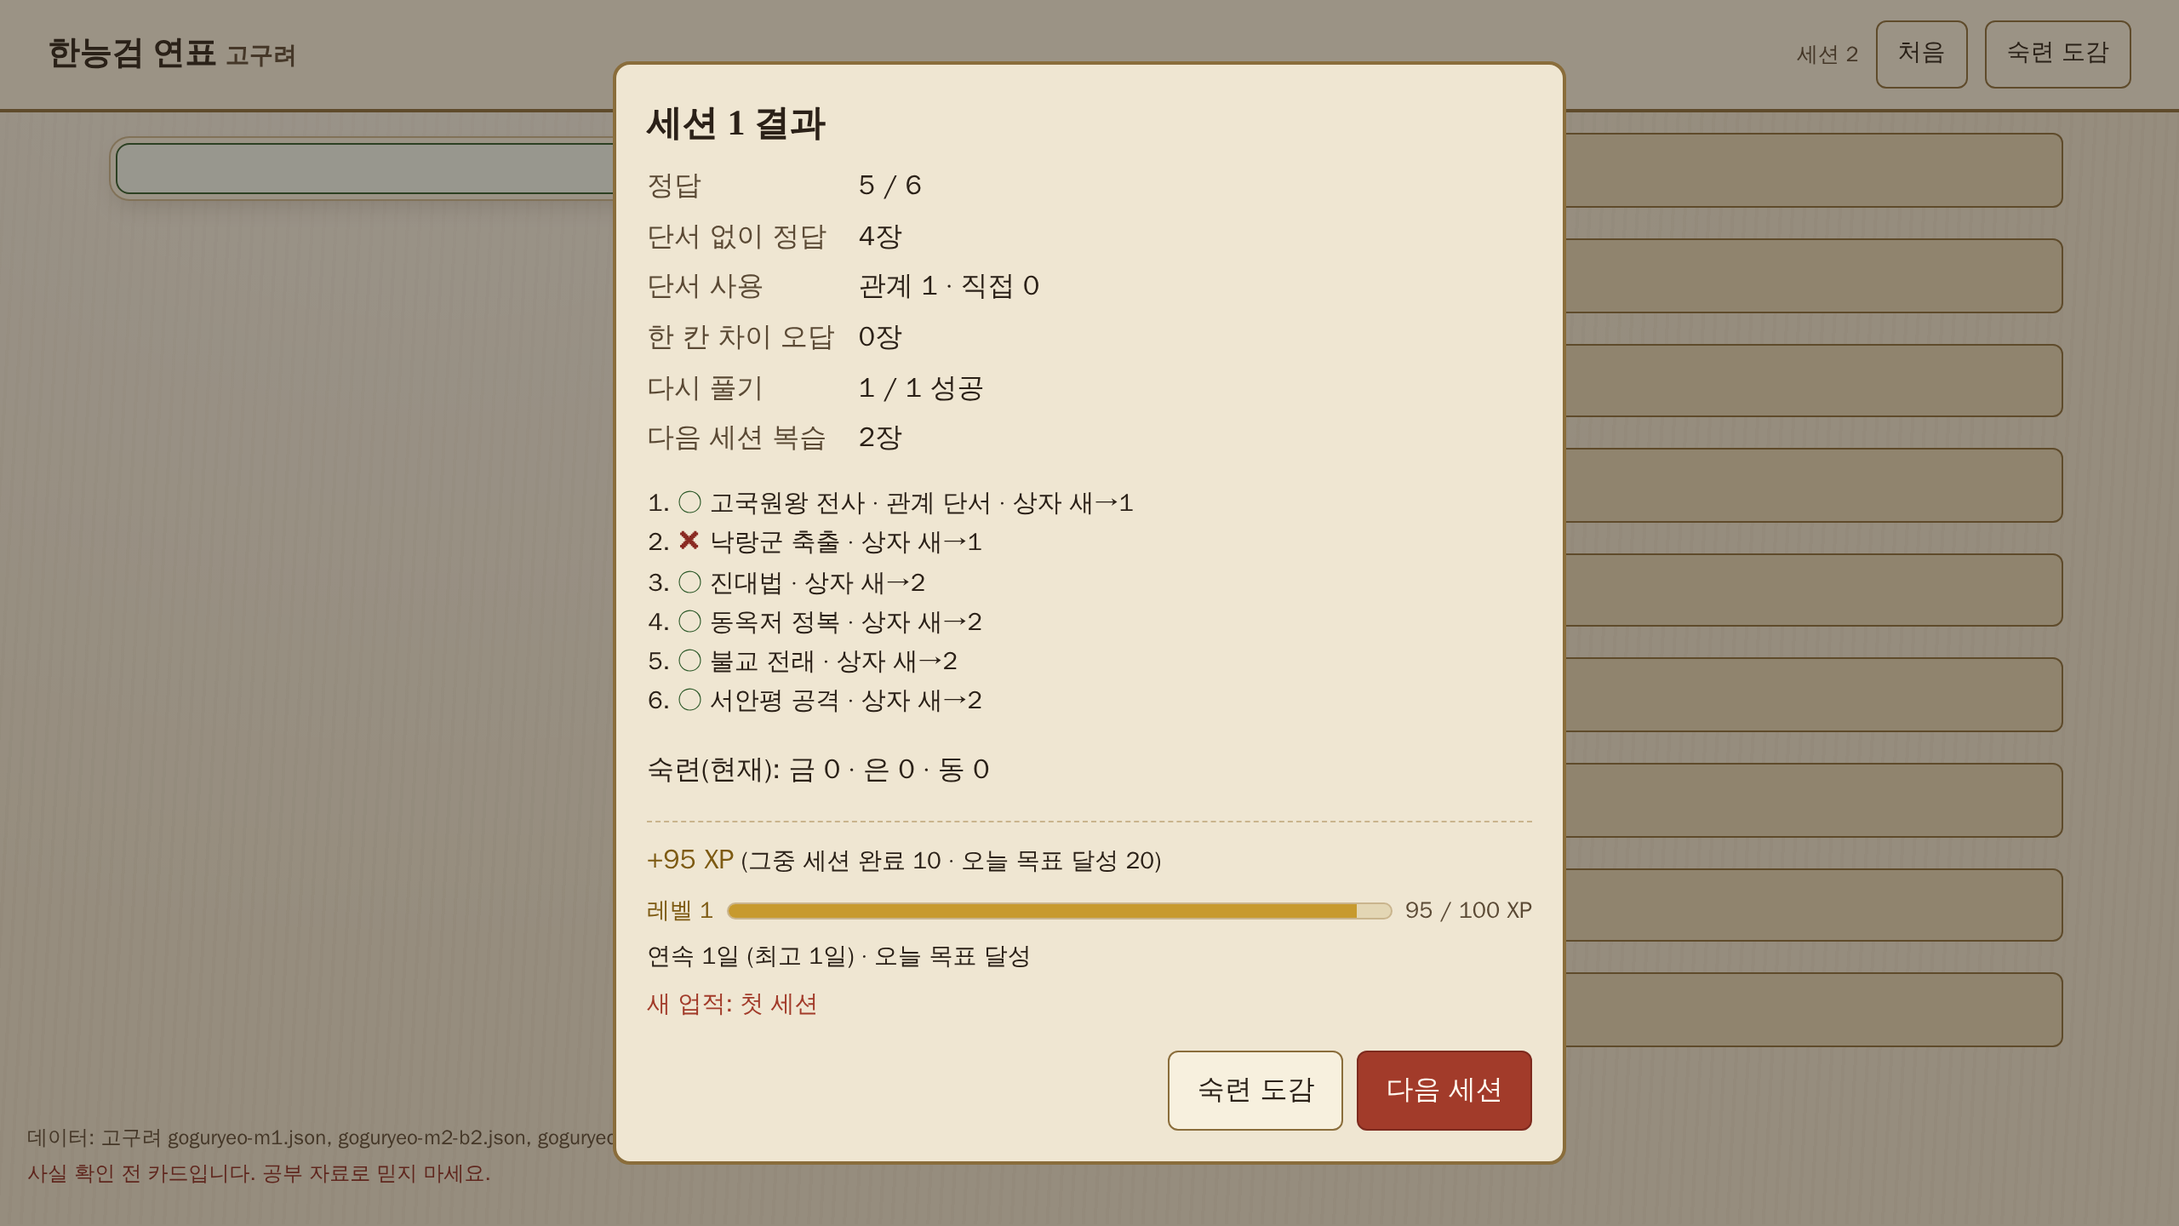
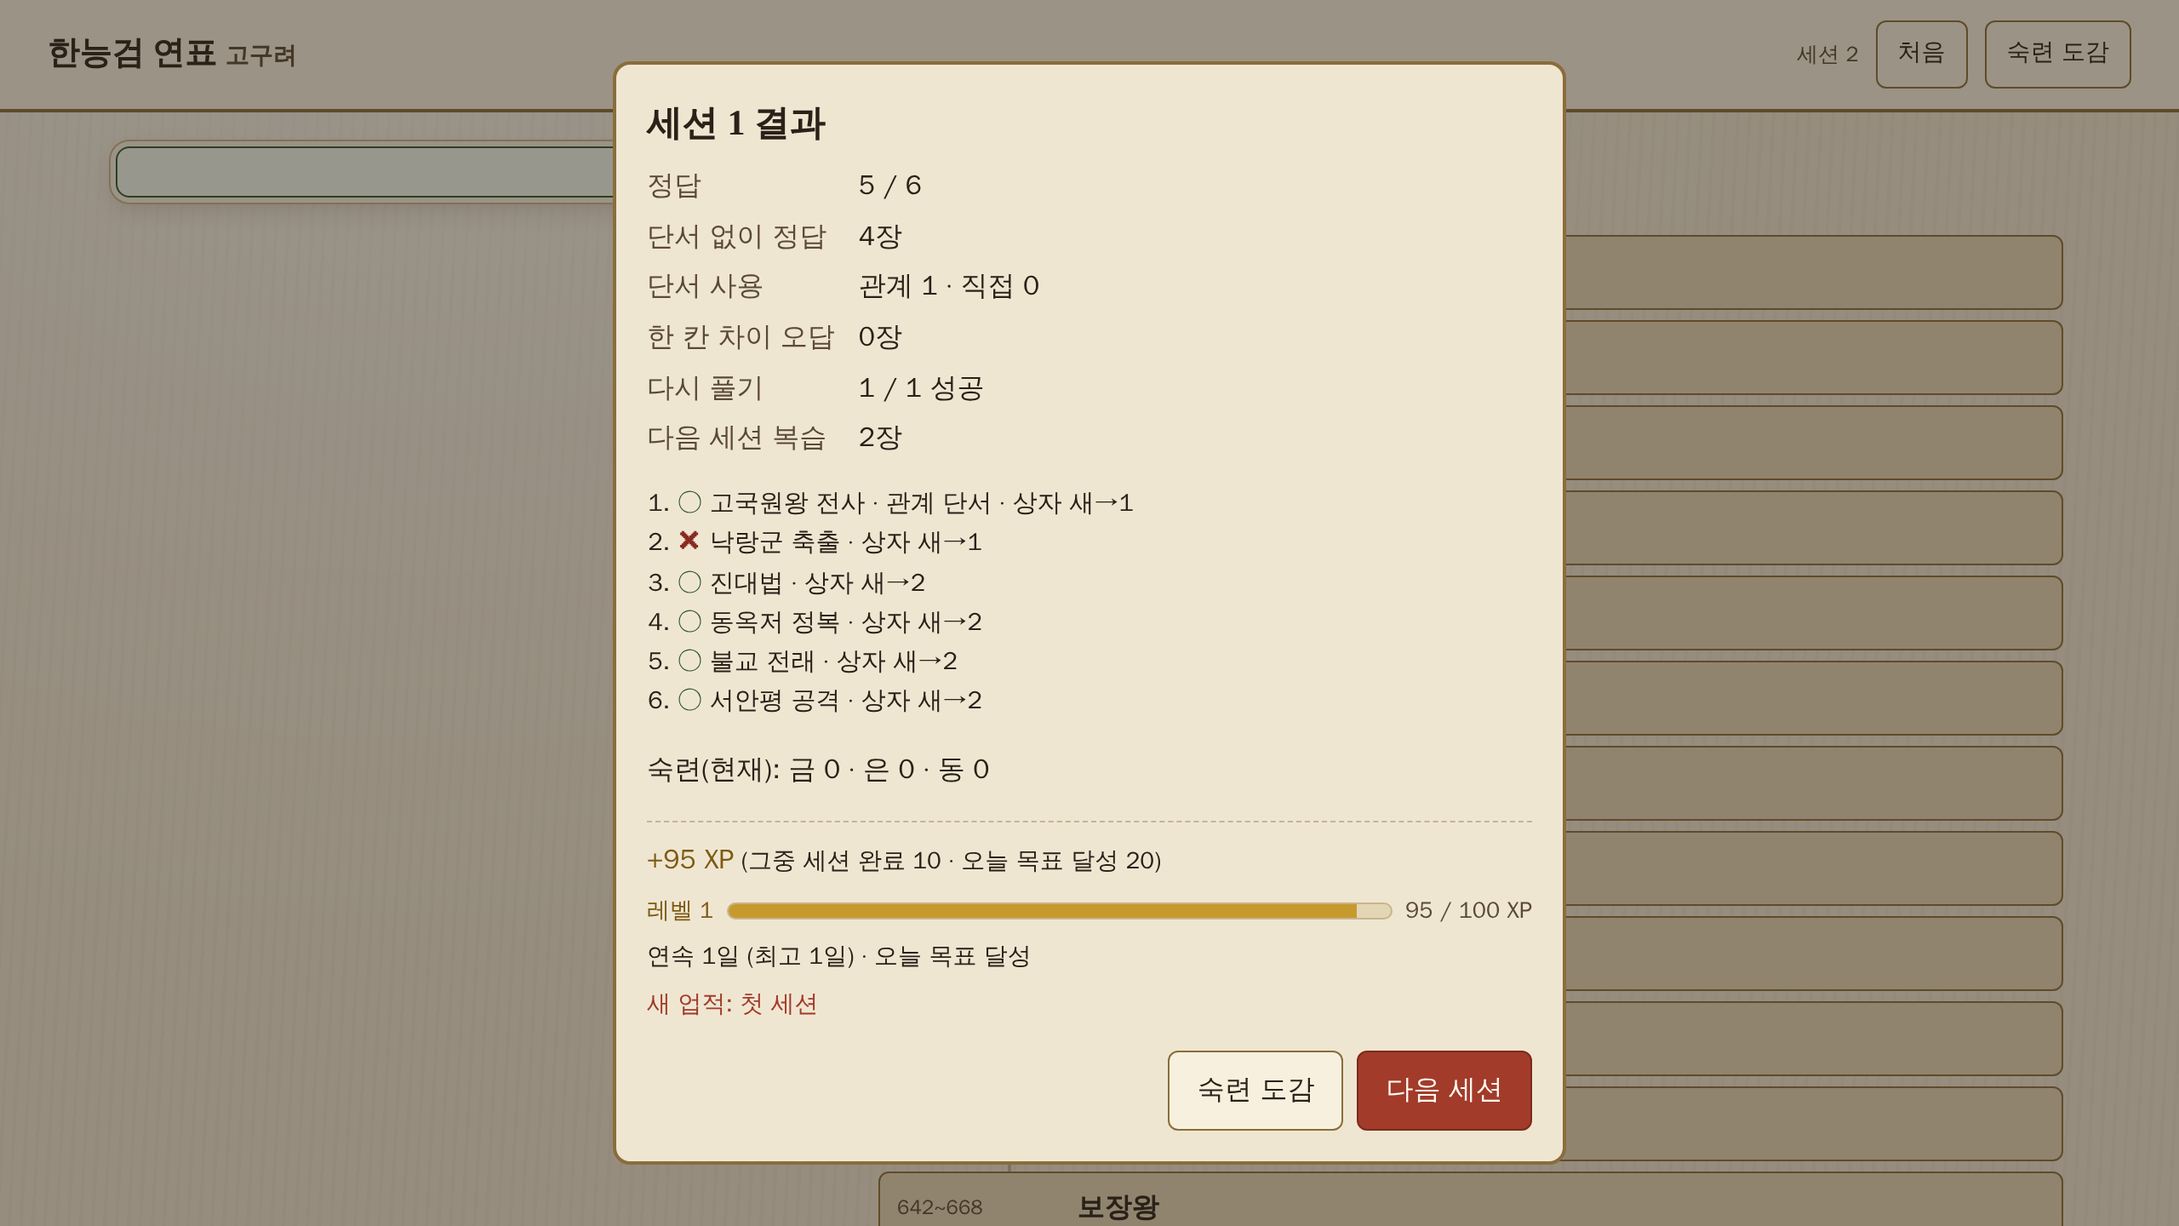
feat: compact timeline, title today-plan, fold mastered explanations (D93, D102)
- Normal mode: one-line anchors with 44px "+" on each boundary, no gap
  rows; study mode keeps the M1 timeline
- Title: "today review n · new m · about k min" above a state-based play
  button; level/XP/streak on one line; smaller coming-soon chips
- Explanations folded for silver-or-better cards answered correctly
- E2E for compact height, touch targets, study layout, folding, title
- Screenshots refreshed

Refs: decision-log D93, D102

Claude-Session: https://claude.ai/code/session_01KFwKcXZaAYXL5Re7NZj86K

diff --git a/prototypes/m1-timeline/js/main.js b/prototypes/m1-timeline/js/main.js
@@ -231,11 +231,22 @@ function renderResult(box) {
     el('p', { class: 'result-box', id: 'result-box', dataset: { from: String(r.boxFrom ?? ''), to: String(r.boxTo ?? '') } },
       boxLine, !r.practice && !r.retry && grade ? ` · 등급 ${GRADE_NAME[grade]}` : ''),
     r.xp && r.xp.xp > 0 ? el('p', { class: 'result-xp', id: 'result-xp', dataset: { xp: String(r.xp.xp) } }, `+${r.xp.xp} XP`, el('span', { class: 'xp-parts' }, ` (${r.xp.parts.map(([n, v]) => `${n} ${v}`).join(' · ')})`)) : null,
+    explainBlock(card, !app.study && r.correct && grade >= 2),
+    el('button', { type: 'button', id: 'btn-next', class: 'btn btn-primary', onclick: onNext }, isLast ? (app.state.practice ? '연습 끝내기' : '세션 결과 보기') : '다음 카드'),
+  ].filter(Boolean));
+}
+
+/**
+ * 해설·수험 정리·출처. 숙련 카드(은 이상)를 맞혔으면 기본으로 접는다(D93: 세션 피로). 테스트 모드는 M1 그대로 펼침.
+ */
+function explainBlock(card, folded) {
+  const body = [
     el('p', { class: 'result-exp' }, card.explanation),
     card.exam_note ? el('p', { class: 'result-note', id: 'result-note' }, el('b', {}, '수험 정리 '), card.exam_note) : null,
     el('p', { class: 'result-source', id: 'result-source' }, `출처: ${card.source?.name ?? ''}${card.source?.ref ? ' ' + card.source.ref : ''}`),
-    el('button', { type: 'button', id: 'btn-next', class: 'btn btn-primary', onclick: onNext }, isLast ? (app.state.practice ? '연습 끝내기' : '세션 결과 보기') : '다음 카드'),
-  ].filter(Boolean));
+  ];
+  if (!folded) return body;
+  return el('details', { class: 'result-details', id: 'result-details' }, el('summary', {}, '해설 보기(숙련 카드)'), ...body);
 }
 
 /** 큐가 빈 세션(§5-4): 도래 카드와 새 카드를 모두 했다. */
@@ -273,14 +284,20 @@ function renderTimeline() {
   const placed = (app.state?.placed ?? []).filter((p) => p.id !== hideId);
   const nodes = [];
   let dock = null;
-  const gap = (k) => {
+  // D93(M2 평가): 일반 모드는 칸 압축(앵커 한 줄, 틈 줄 없이 앵커 경계에 44px "+"). 테스트 모드는 M1 화면 그대로.
+  const compact = !app.study;
+  const gapButton = (k, pending, text) => el('button', {
+    type: 'button', class: 'gap' + (pending ? ' gap-selected' : '') + (compact ? ' gap-compact' : ''), dataset: { gap: String(k) }, disabled: !asking,
+    'aria-label': `${text} 칸에 꽂기`, 'aria-pressed': pending ? 'true' : null, onclick: () => onGap(k),
+  }, el('span', { class: 'gap-plus', 'aria-hidden': 'true' }, pending ? '✓' : '＋'), compact ? null : el('span', { class: 'gap-label' }, pending ? '이 칸을 골랐습니다' : '이 칸에 꽂기'));
+  /** 칸 k의 버튼(압축: 앵커 줄 안에 넣을 버튼, M1: 틈 줄). */
+  const gap = (k, inline = false) => {
     if (!allowed.has(k)) return null;
+    if (compact !== inline) return null;
     const pending = asking && app.pendingGap === k;
     const text = slotText(items, k);
-    const row = el('li', { class: 'gap-row' + (pending ? ' gap-pending' : '') }, el('button', {
-      type: 'button', class: 'gap' + (pending ? ' gap-selected' : ''), dataset: { gap: String(k) }, disabled: !asking,
-      'aria-label': `${text} 칸에 꽂기`, 'aria-pressed': pending ? 'true' : null, onclick: () => onGap(k),
-    }, el('span', { class: 'gap-plus', 'aria-hidden': 'true' }, pending ? '✓' : '＋'), el('span', { class: 'gap-label' }, pending ? '이 칸을 골랐습니다' : '이 칸에 꽂기')));
+    const btn = gapButton(k, pending, text);
+    const row = compact ? btn : el('li', { class: 'gap-row' + (pending ? ' gap-pending' : '') }, btn);
     if (pending) {
       // B4: 확정 막대는 화면 아래 고정(연표 밖의 #confirm-dock, 위에 붙은 카드에 가리지 않게).
       dock = (el('div', { class: 'confirm-bar', id: 'confirm-bar' },
@@ -304,7 +321,14 @@ function renderTimeline() {
   nodes.push(gap(0));
   items.forEach((it, i) => {
     const c = byId(it.id);
-    if (it.kind === 'anchor') {
+    if (it.kind === 'anchor' && compact) {
+      const pending = asking && app.pendingGap === i + 1;
+      nodes.push(el('li', { class: 'row row-anchor row-compact' + (pending ? ' gap-pending' : ''), dataset: { id: it.id, order: String(it.order) } },
+        el('span', { class: 'row-year' }, c.reign_range ?? shortYear(c)),
+        el('span', { class: 'row-main' }, el('span', { class: 'row-title' }, c.reign ?? c.title)),
+        gap(i + 1, true)));
+      if (!L.placedJoinTimeline) nodes.push(...inSlot(it.order, items[i + 1]?.order ?? null).map(placedRow));
+    } else if (it.kind === 'anchor') {
       nodes.push(el('li', { class: 'row row-anchor', dataset: { id: it.id, order: String(it.order) } },
         el('span', { class: 'row-year' }, c.reign_range ?? shortYear(c)),
         el('span', { class: 'row-main' },
@@ -319,10 +343,13 @@ function renderTimeline() {
   });
   fill($('timeline'), ...nodes.filter(Boolean));
   $('timeline').classList.toggle('asking', asking);
+  $('timeline').classList.toggle('compact', compact);
   fill($('confirm-dock'), dock);
   $('timeline-title').textContent = `${app.deck.nation_label ?? ''} 왕대 연표`;
   $('timeline-help').textContent = asking
-    ? (needsConfirm() ? '사건이 들어갈 칸(＋)을 고른 뒤 "이 칸에 꽂기"를 누르세요.' : '사건이 들어갈 칸(＋)을 누르세요. 카드를 끌어 놓아도 됩니다.')
+    ? (compact
+      ? (needsConfirm() ? '사건이 일어난 왕 줄의 ＋를 누른 뒤 "이 칸에 꽂기"로 확정하세요. ＋는 "이 왕 즉위 이후 ~ 다음 왕 즉위 이전"입니다.' : '사건이 일어난 왕 줄의 ＋를 누르세요(이 왕 즉위 이후 ~ 다음 왕 즉위 이전). 카드를 끌어 놓아도 됩니다.')
+      : (needsConfirm() ? '사건이 들어갈 칸(＋)을 고른 뒤 "이 칸에 꽂기"를 누르세요.' : '사건이 들어갈 칸(＋)을 누르세요. 카드를 끌어 놓아도 됩니다.'))
     : '';
 }
 
@@ -415,13 +442,13 @@ function rewardBox(st) {
     g?.newAchievements.length ? el('p', { class: 'rewards-ach', id: 'summary-achievements' }, '새 업적: ', g.newAchievements.map((a) => a.name).join(', ')) : null);
 }
 
-function levelBar(rw) {
+function levelBar(rw, extra = '', id = null) {
   const lv = levelOf(rw.xp, R);
-  return el('div', { class: 'level', dataset: { level: String(lv.level) } },
+  return el('div', { class: 'level', id, dataset: { level: String(lv.level) } },
     el('span', { class: 'level-name' }, `레벨 ${lv.level}`),
     el('span', { class: 'level-track', role: 'progressbar', 'aria-valuemin': '0', 'aria-valuemax': String(lv.need), 'aria-valuenow': String(lv.into), 'aria-label': `다음 레벨까지 ${lv.need - lv.into} XP` },
       el('span', { class: 'level-fill', style: `width:${Math.round((100 * lv.into) / lv.need)}%` })),
-    el('span', { class: 'level-num' }, `${lv.into} / ${lv.need} XP`));
+    el('span', { class: 'level-num' }, `${lv.into} / ${lv.need} XP${extra}`));
 }
 
 function showSummary(st) {
@@ -815,19 +842,46 @@ function setupTitle(wantIntro, params) {
   }, n.label, n.files.length ? null : el('span', { class: 'nation-soon' }, ' 준비 중'))));
 }
 
+/**
+ * 타이틀의 오늘 할 일(D93·D102): 진행 중 세션이 있으면 남은 장수, 없으면 다음 세션 구성 미리 보기(같은 시드라 실제와 같다).
+ * @returns {{mode: 'continue'|'review'|'new'|'done', due: number, fresh: number, left: number}}
+ */
+function todayPlan() {
+  if (app.state && currentId(app.state)) {
+    const left = app.state.queue.length - app.state.index;
+    return { mode: 'continue', due: 0, fresh: 0, left };
+  }
+  const s = sessionIndex();
+  const pick = buildSession(app.deck.cards, app.progress, s, L, sessionSeed(app.deckHash, s, app.seedParam));
+  const mode = pick.due ? 'review' : pick.fresh ? 'new' : 'done';
+  return { mode, due: pick.due, fresh: pick.fresh, left: pick.due + pick.fresh };
+}
+
 function showTitle() {
   app.titleOn = true;
   document.body.classList.add('on-title');
   $('title').hidden = false;
   const learned = app.deck.cards.filter((c) => app.progress[c.id]?.introduced).length;
   const counts = gradeCounts(app.deck.cards, app.progress, L);
-  const resume = app.started || !!app.state || app.completed > 0 || learned > 0;
-  $('title-play').textContent = resume ? `이어하기 · 세션 ${app.state?.session ?? sessionIndex()}` : '시작하기';
-  $('title-play').dataset.mode = resume ? 'continue' : 'start';
+  const plan = todayPlan();
+  const mins = Math.max(1, Math.ceil((plan.left * CONFIG.secondsPerCard) / 60));
+  const today = {
+    continue: `이어서 ${plan.left}장 남음 · 약 ${mins}분`,
+    review: `오늘 복습 ${plan.due}장 · 새 카드 ${plan.fresh}장 · 약 ${mins}분`,
+    new: `오늘 복습 0장 · 새 카드 ${plan.fresh}장 · 약 ${mins}분`,
+    done: '오늘 할 카드를 모두 했습니다. 미리 복습은 연습입니다.',
+  }[plan.mode];
+  const label = { continue: `이어하기 · ${plan.left}장 남음`, review: '복습 시작', new: '새 카드 시작', done: '오늘 끝 · 미리 복습' }[plan.mode];
+  $('title-today').textContent = today;
+  Object.assign($('title-today').dataset, { mode: plan.mode, due: String(plan.due), fresh: String(plan.fresh), left: String(plan.left), minutes: String(mins) });
+  $('title-play').textContent = label;
+  $('title-play').dataset.mode = plan.mode;
+  $('title-play').classList.toggle('btn-primary', plan.mode !== 'done');
+  const rw = app.rewards;
+  const todayKey = dayKey(new Date());
   fill($('title-stats'),
     el('p', { id: 'title-progress' }, `${app.deck.nation_label ?? ''} 카드 ${app.deck.cards.length}장 중 ${learned}장 학습 · 금 ${counts.gold} · 은 ${counts.silver} · 동 ${counts.bronze}`),
-    app.rewards ? levelBar(app.rewards) : null,
-    app.rewards ? el('p', { id: 'title-streak' }, `연속 ${app.rewards.streak.current}일 · 오늘 ${app.rewards.daily.goal_met && app.rewards.daily.day === dayKey(new Date()) ? '목표 달성' : `목표 세션 ${R.daily_goal_sessions}회`}`) : null);
+    rw ? levelBar(rw, ` · 연속 ${rw.streak.current}일${rw.daily.goal_met && rw.daily.day === todayKey ? ' · 오늘 목표 달성' : ''}`, 'title-meta') : null);
   $('title-play').focus();
 }
 

diff --git a/prototypes/m1-timeline/style.css b/prototypes/m1-timeline/style.css
@@ -248,3 +248,27 @@ html { background-color: var(--paper); min-height: 100%; }
 body { min-height: 100vh; background-attachment: fixed; }
 .kings { grid-template-columns: repeat(auto-fill, minmax(150px, 1fr)); }
 @media (min-width: 700px) { .kings { grid-template-columns: repeat(auto-fill, minmax(150px, 1fr)); } }
+
+/* D93(M2 평가): 연표 칸 압축 — 앵커 한 줄(약 44px), 틈 줄 없이 앵커 경계 오른쪽에 44px "+"(= 이 왕 즉위 이후 ~ 다음 왕 즉위 이전). 테스트 모드는 M1 화면 그대로. */
+.timeline.compact { padding-bottom: 28px; }
+.timeline.compact .row { margin: 0 0 6px; }
+.timeline.compact .row-compact { grid-template-columns: 96px 1fr; gap: 10px; min-height: 44px; padding: 0 56px 0 10px; }
+.timeline.compact .row-compact .row-year { white-space: nowrap; font-size: 12px; text-align: left; }
+.timeline.compact .row-placed { padding-right: 56px; }
+.timeline.compact .gap.gap-compact {
+  position: absolute; right: 6px; bottom: -25px; z-index: 2; width: 44px; height: 44px; min-height: 44px; margin: 0; padding: 0;
+  justify-content: center; border-radius: 50%; overflow: visible;
+}
+.timeline.compact:not(.asking) .gap.gap-compact { visibility: hidden; }
+.timeline.compact.asking .gap.gap-compact { border: 1.5px dashed var(--line); background: var(--paper-2); color: var(--gold); cursor: pointer; }
+.timeline.compact.asking .gap.gap-compact:hover, .timeline.compact .gap.gap-compact.over { border-style: solid; border-color: var(--gold); background: #fbeec4; }
+.timeline.compact .gap-compact .gap-plus { width: 30px; height: 30px; font-size: 18px; }
+.timeline.compact .gap.gap-compact.gap-selected { border: 2px solid var(--gold) !important; background: #fbeec4 !important; }
+.timeline.compact .row-compact.gap-pending { box-shadow: inset 0 0 0 2px var(--gold); background: #f6e7bd; }
+.timeline.compact .gap-pending { scroll-margin-bottom: 150px; }
+/* D93: 타이틀 — 오늘 할 일을 시작 버튼 바로 위에, 레벨·XP·연속일 한 줄, "준비 중" 칩 작게 */
+.title-today { margin: 4px 0 0; font-weight: 700; color: var(--ink); text-align: center; }
+.title-stats .level { grid-template-columns: auto minmax(60px, 1fr) auto; }
+.chip.nation[disabled] { font-size: 12.5px; padding: 2px 9px; min-height: 30px; opacity: .5; }
+.chip.nation[disabled] .nation-soon { font-size: 11px; }
+.timeline.compact .row-compact .row-year { white-space: normal; word-break: keep-all; line-height: 1.25; }

diff --git a/prototypes/m1-timeline/js/config.js b/prototypes/m1-timeline/js/config.js
@@ -51,6 +51,8 @@ export const CONFIG = Object.freeze({
     'data/decks.json',
   ]),
   defaultNation: 'goguryeo',
+  /** 타이틀의 "약 k분"(D93·D102): 카드 한 장에 드는 시간 추정(초). M1 관찰 전 임시값. */
+  secondsPerCard: 40,
   /**
    * 보상(M2 골격, D79-3·D82). design/rewards-spec.md가 오기 전의 임시 수치. 원칙: 학습 신호와 같은 방향
    * (단서 없는 정답 > 단서 정답 > 오답 = 0), 승급·등급에 큰 보상, 재도전·연습·세션 길이로는 보상 없음, 연속일이 끊겨도 벌 없음.

diff --git a/prototypes/m1-timeline/index.html b/prototypes/m1-timeline/index.html
@@ -26,6 +26,7 @@
     <div id="title-nations" class="title-nations" role="group" aria-label="나라"></div>
     <div id="title-stats" class="title-stats"></div>
     <div class="title-actions">
+      <p id="title-today" class="title-today" aria-live="polite"></p>
       <button id="title-play" type="button" class="btn btn-primary title-play">시작하기</button>
       <button id="title-dogam" type="button" class="btn">숙련 도감</button>
       <button id="title-howto" type="button" class="btn">하는 방법</button>

diff --git a/docs/decision-log.md b/docs/decision-log.md
@@ -659,6 +659,12 @@
 - **고이왕 관제(260)**: v0(D7)에서는 연대 이견으로 disputed였다. v2는 수험 표기("고이왕의 체제 정비")를 기준으로 판정 카드로 두고 이견(6좌평 완성 시기 4~5세기, 사비 시기 설)을 해설과 note에 적었다. 사람이 확인할 때 disputed 여부를 다시 판단한다.
 - **틈 분포(백제 24장)**: 온조왕 2, 고이왕 2, 근초고왕 3, 침류왕 2, 개로왕 2, 문주왕 1, 동성왕 1, 무령왕 2, 성왕 5(551·552·554·567 포함, 위덕왕 대가 성왕 칸에 들어감), 무왕 1, 의자왕 3. 관계 단서는 모두 후보 2~3칸.
 
+## 2026-11-05 D102. D93 구현: 연표 칸 압축, 타이틀 "오늘 할 일", 숙련 카드 해설 접기 (웹 빌드 세션)
+- **연표 칸 압축**(일반 모드만): 앵커는 한 줄(재위 기간 + 왕 이름, 높이 44~48px), 틈 줄을 없애고 각 앵커 줄 오른쪽 아래 경계에 44px 원형 "+"를 둔다. "+"는 "이 왕 즉위 이후 ~ 다음 왕 즉위 이전" 칸이다(도움말에 적음). 고른 앵커 줄을 금색으로 표시하고 확정 막대(D75)는 그대로다. 390px에서 고구려 12앵커 연표가 약 1.2창(e2e: 2창 이하, 앵커 줄 48px 이하, "+" 44×44, 마지막 "+"도 가리지 않음). **테스트 모드(`?study=1`)는 M1 화면 그대로**(e2e로 확인).
+- **타이틀**: 시작 버튼 바로 위에 "오늘 복습 n장 · 새 카드 m장 · 약 k분"(다음 세션 구성을 같은 시드로 미리 계산하므로 실제와 같다. 한 장 40초 추정, `config.secondsPerCard`). 버튼 문구는 상태별: 이어하기 · n장 남음 / 복습 시작 / 새 카드 시작 / 오늘 끝 · 미리 복습. 레벨·XP·연속일·오늘 목표는 한 줄. "준비 중" 나라 칩은 작게.
+- **숙련 카드 해설 접기**: 현재 은 이상인 카드를 맞히면 해설·수험 정리·출처를 "해설 보기(숙련 카드)"로 접는다. 틀리거나 은 미만이면 펼침. 테스트 모드는 펼침 그대로.
+- **발견(설계 판단 필요)**: M1 덮어쓰기 `new_min 6`(세션 6장 전부 새 카드 예약)이 일반 모드에도 적용돼, 안 본 카드가 6장 이상 남아 있는 동안에는 **복습이 세션에 들어가지 못한다**(§5 구성: 예약 뒤 남은 자리 0). 고구려 36장이면 새 카드 30장을 다 볼 때까지 오답 카드도 돌아오지 않는다. 타이틀의 "오늘 복습 0장"은 이 실제 구성을 그대로 보여 준다. 제안: 일반 모드는 명세 기본값(new_min 2, new_max_ratio 0.5)을 쓰고 M1 덮어쓰기는 테스트 모드에만. 결정이 나면 config 한 줄과 e2e 기대값을 고친다.
+
 ## 남은 문제
 - 카드 44장 전부 `verified: false`. 사람의 사실 확인 전에는 출시 빌드에 넣을 카드가 없다(`validate_cards.py --release` 실패가 정상).
 - 같은 사료(삼국사기 전승)에 기댄 건국기 카드가 많다. 플레이에서 건국기 칸이 단서 3단계 의존으로 쏠리는지 볼 것.
